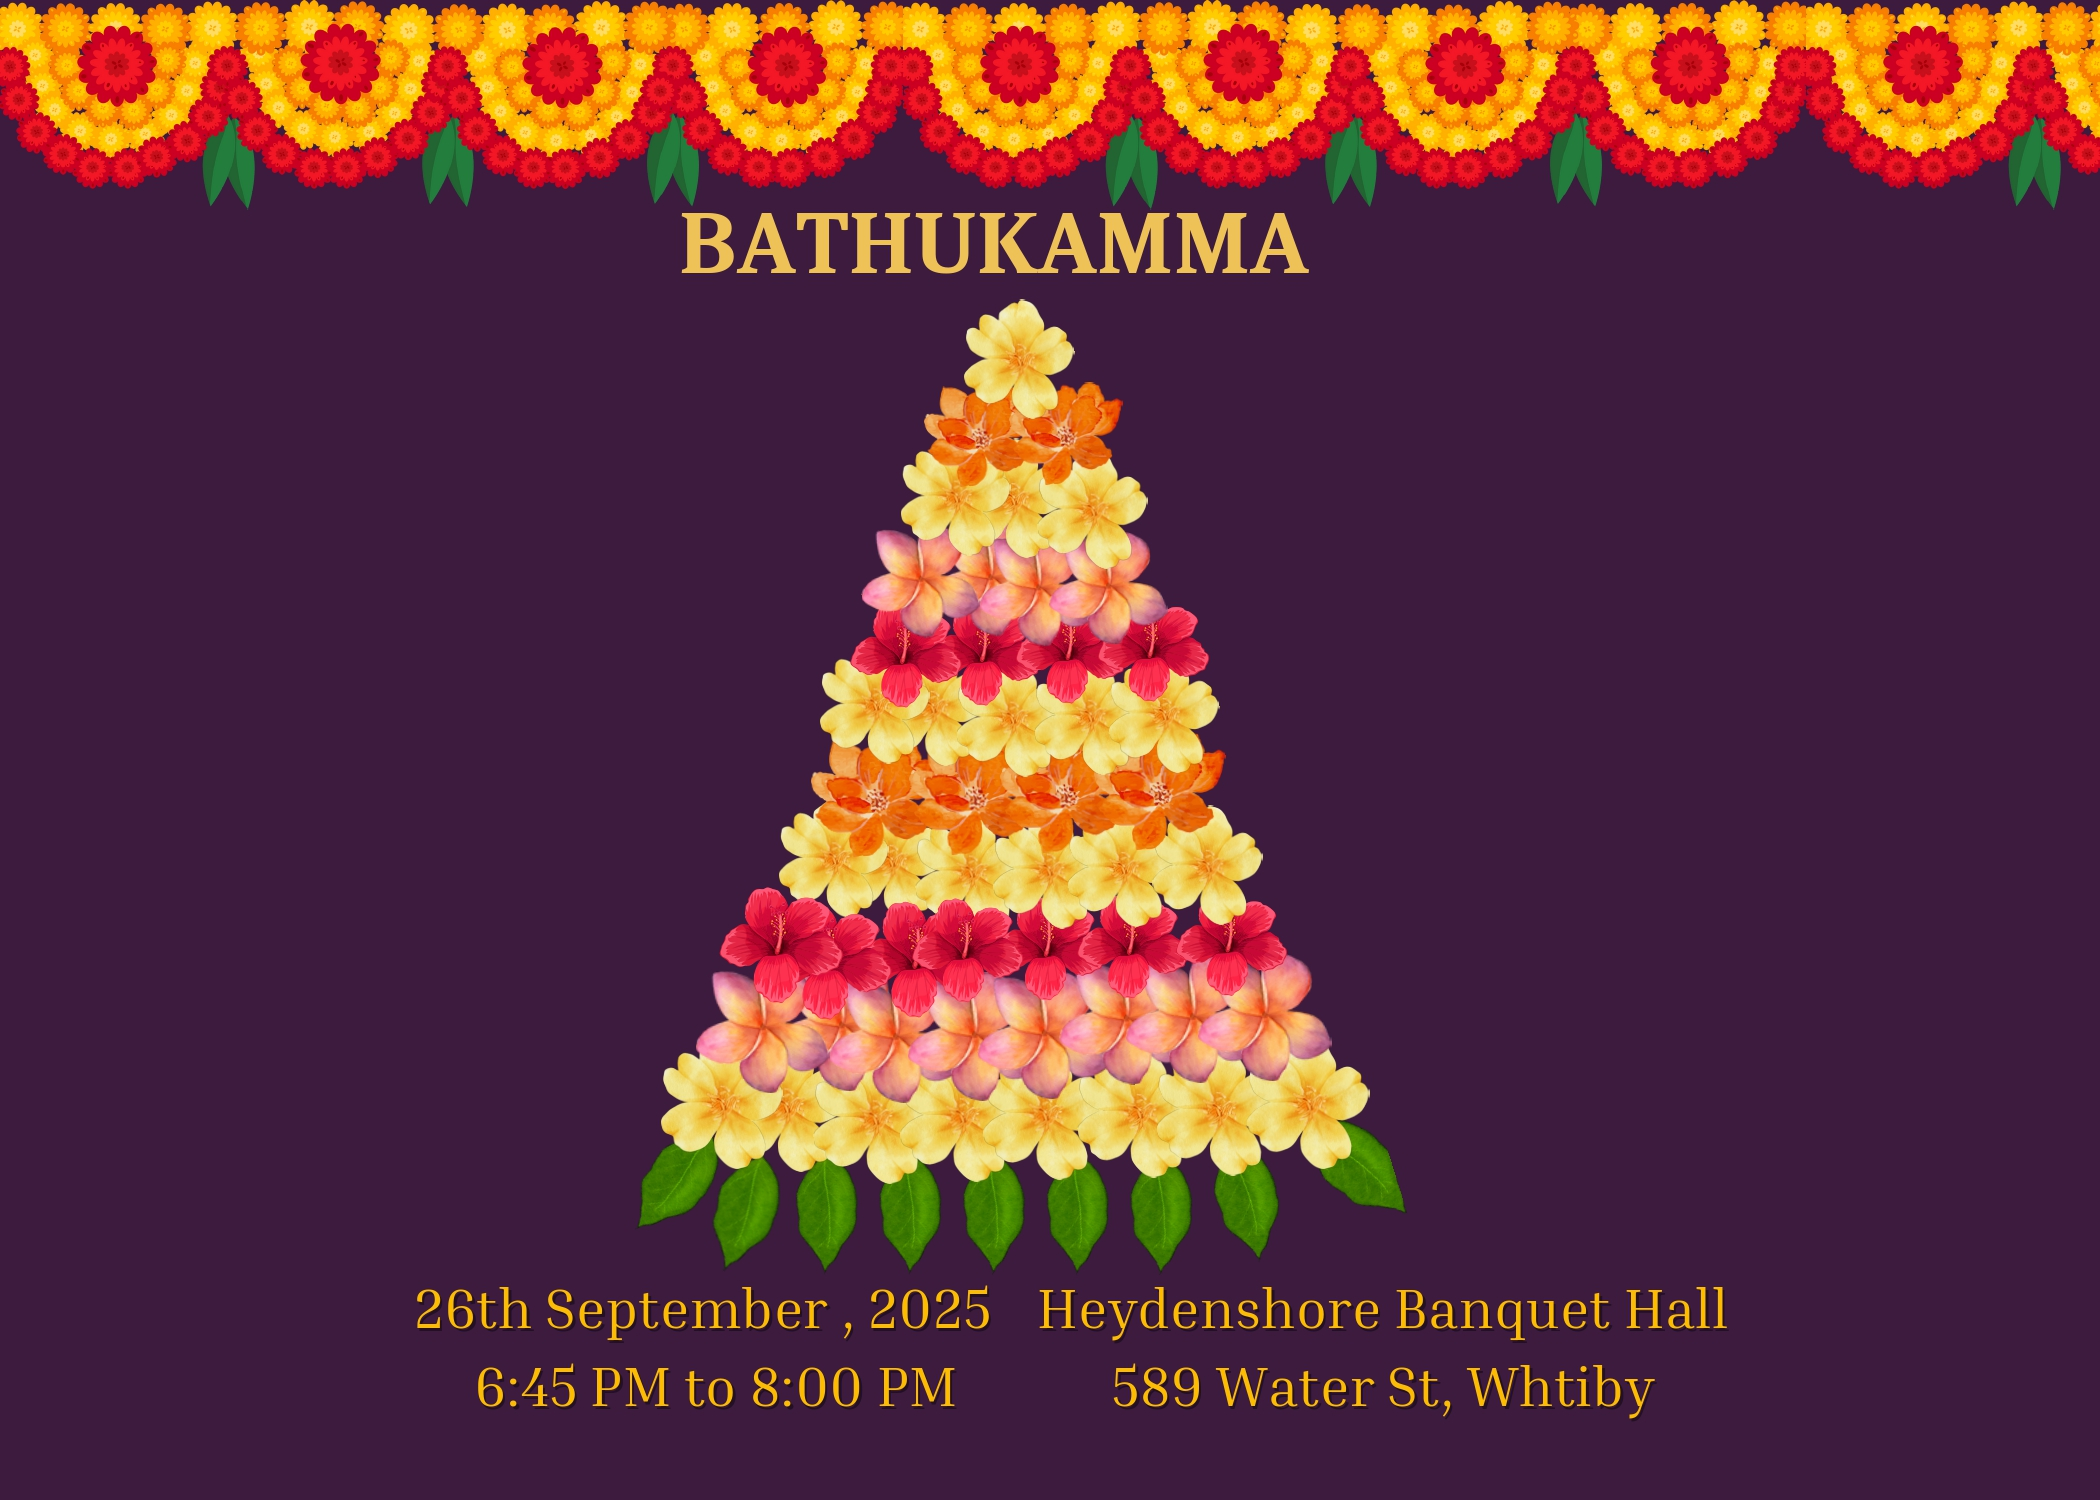
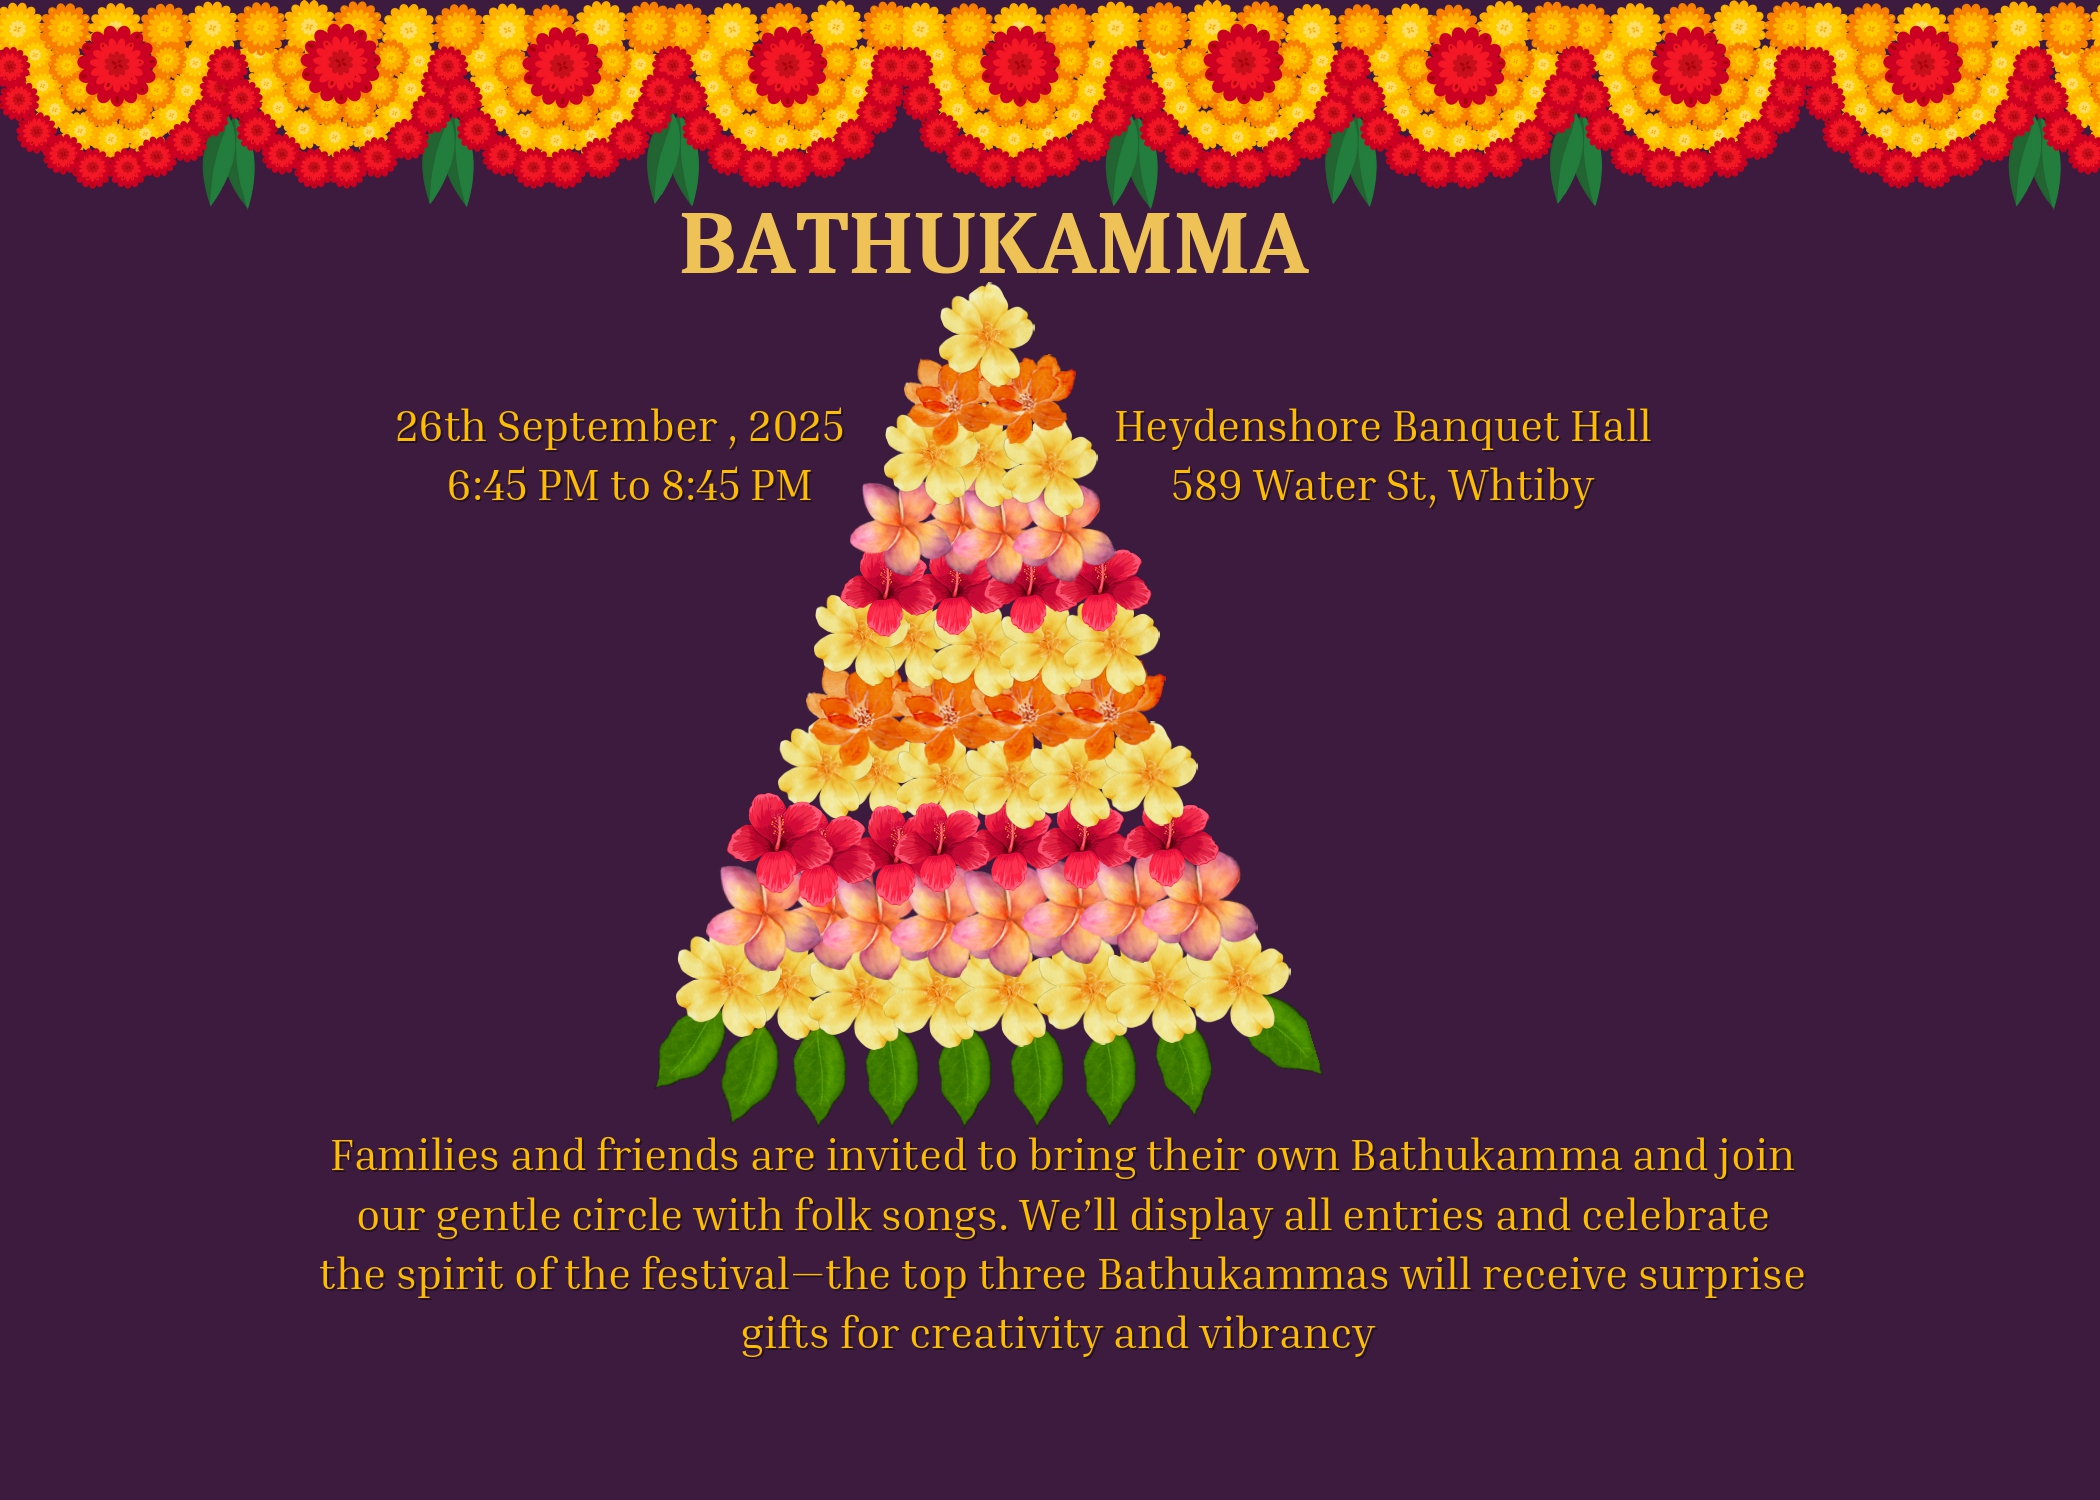
Changes for bathukamma image

Changed region(s): [[0.1548, 0.184, 0.8667, 0.9507]]

diff --git a/src/components/RsvpForm.tsx b/src/components/RsvpForm.tsx
@@ -262,7 +262,9 @@ const RsvpForm: React.FC<RsvpFormProps> = ({ isOpen, onClose }) => {
                                 <SelectItem value="2">Me + 1 (2 people)</SelectItem>
                                 <SelectItem value="3">Me + 2 (3 people)</SelectItem>
                                 <SelectItem value="4">Me + 3 (4 people)</SelectItem>
-                                <SelectItem value="5+">Family group (5+ people)</SelectItem>
+                                <SelectItem value="4">Me + 4 (5 people)</SelectItem>
+                                <SelectItem value="4">Me + 5 (6 people)</SelectItem>
+                                <SelectItem value="5+">Family group (6+ people)</SelectItem>
                             </SelectContent>
                         </Select>
                     </div>
